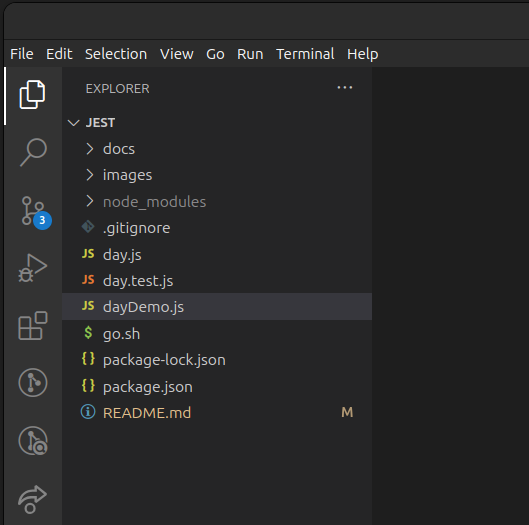
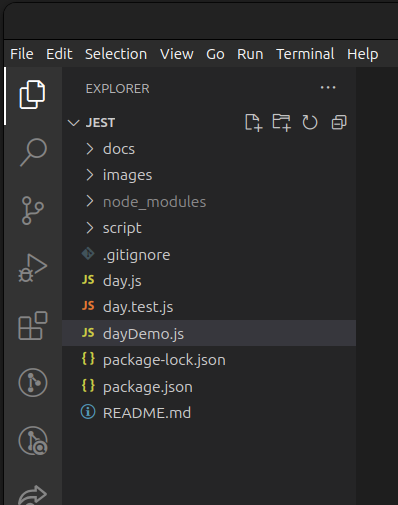
updated the VS Code screenshot (removed go.sh)

diff --git a/docs/index.html b/docs/index.html
@@ -82,7 +82,7 @@ $ npm --version
     
       <google-codelab-step label="Exploring the workshop project" duration="0">
         <p>Once you have forked the repository and cloned a copy to your computer, open the folder in VS Code.  It should look like this:<br></p>
-<p class="image-container"><img alt="Project Open In VS Code" src="img/67453563068dff57.png"></p>
+<p class="image-container"><img alt="Project Open In VS Code" src="img/d967ab98a3e98a2.png"></p>
 <p>This project contains the following files:</p>
 <ul>
 <li><code>day.js</code> which provides the functionality to store appointments during a given day.</li>
@@ -161,7 +161,7 @@ Check the output is what you expected given the code in <code>dayDemo.js</code>.
     
       <google-codelab-step label="What does 
 makeAppointment currently do?" duration="0">
-        <p>Imagine that you have been asked to implement the function called <code>makeAppointment</code>.  The starting code for this function can be found near the bottom of <code>day.sj</code> is the current implementation is:</p>
+        <p>Imagine that you have been asked to implement the function called <code>makeAppointment</code>.  The starting code for this function can be found near the bottom of <code>day.js</code> is the current implementation is:</p>
 <pre><code language="language-javascript" class="language-javascript">// Make an appointment at a specific time.
 // THIS IS THE ONLY FUNCTION THAT YOU CAN CHANGE
 function makeAppointment(time, person, length) {
